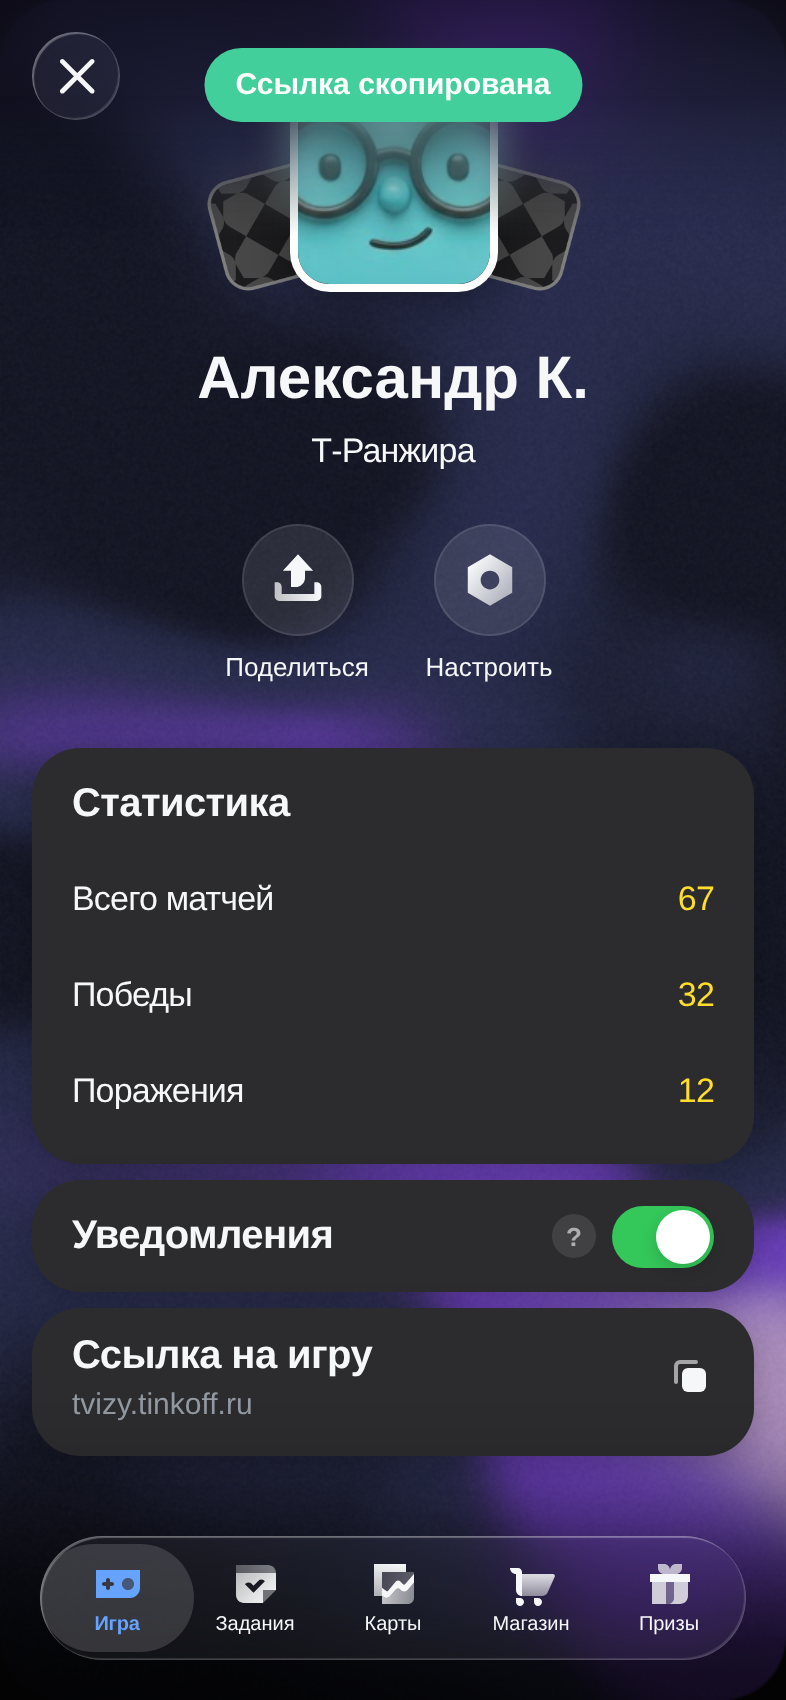
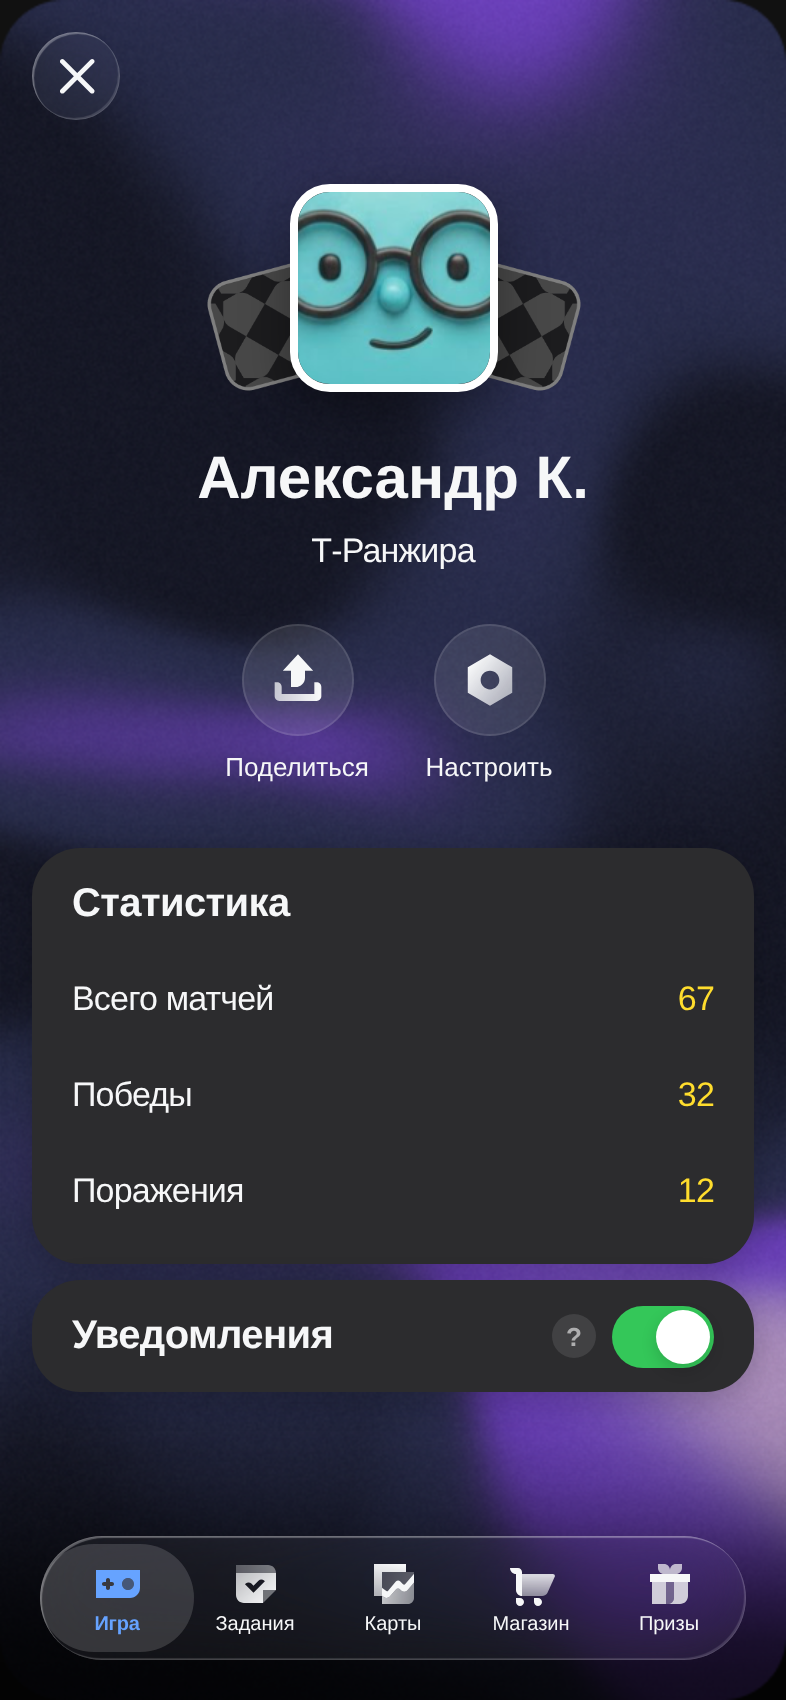
v2: убран блок «Ссылка на игру» из профиля
В профиле остаются только статистика и уведомления.

Claude-Session: https://claude.ai/code/session_01WV2oNWZDh3kq1zaWWkyP1c

diff --git a/v2.html b/v2.html
@@ -4,13 +4,13 @@
   <meta charset="UTF-8">
   <meta name="viewport" content="width=device-width, initial-scale=1, viewport-fit=cover">
   <title>Арена Карт</title>
-  <link rel="stylesheet" href="css/match.css?v=202610081029">
-  <link rel="stylesheet" href="css/v2.css?v=202610081029">
-  <link rel="stylesheet" href="css/profile.css?v=202610081029">
-  <link rel="stylesheet" href="css/tasks.css?v=202610081029">
-  <link rel="stylesheet" href="css/gifts.css?v=202610081029">
-  <link rel="stylesheet" href="css/cards-v2.css?v=202610081029">
-  <link rel="stylesheet" href="css/event.css?v=202610081029">
+  <link rel="stylesheet" href="css/match.css?v=202610081036">
+  <link rel="stylesheet" href="css/v2.css?v=202610081036">
+  <link rel="stylesheet" href="css/profile.css?v=202610081036">
+  <link rel="stylesheet" href="css/tasks.css?v=202610081036">
+  <link rel="stylesheet" href="css/gifts.css?v=202610081036">
+  <link rel="stylesheet" href="css/cards-v2.css?v=202610081036">
+  <link rel="stylesheet" href="css/event.css?v=202610081036">
 </head>
 <body>
   <svg width="0" height="0" style="position: absolute">
@@ -252,14 +252,6 @@
           <span class="pf-hint" title="Напоминания о заданиях и ивентах">?</span>
           <label class="pf-switch"><input type="checkbox" id="profileNotifySwitch"><span></span></label>
         </div>
-
-        <button class="pf-card pf-card-row pf-share-card" id="profileCopyBtn">
-          <span class="pf-share-texts">
-            <span class="pf-card-title">Ссылка на игру</span>
-            <span class="pf-share-url">tvizy.tinkoff.ru</span>
-          </span>
-          <span class="pf-copy-icon"><svg width="24" height="24" viewBox="0 0 24 24" fill="none"><rect x="8" y="8" width="12" height="12" rx="3" fill="currentColor"/><path d="M5 15V7C5 5.89543 5.89543 5 7 5H15" stroke="currentColor" stroke-width="2" stroke-linecap="round" opacity="0.6"/></svg></span>
-        </button>
       </section>
     </div>
 
@@ -437,12 +429,12 @@
 
   </main>
 
-  <script src="js/cards.js?v=202610081029"></script>
-  <script src="js/v2.js?v=202610081029"></script>
-  <script src="js/profile.js?v=202610081029"></script>
-  <script src="js/tasks.js?v=202610081029"></script>
-  <script src="js/cards-v2.js?v=202610081029"></script>
-  <script src="js/gifts.js?v=202610081029"></script>
-  <script src="js/event.js?v=202610081029"></script>
+  <script src="js/cards.js?v=202610081036"></script>
+  <script src="js/v2.js?v=202610081036"></script>
+  <script src="js/profile.js?v=202610081036"></script>
+  <script src="js/tasks.js?v=202610081036"></script>
+  <script src="js/cards-v2.js?v=202610081036"></script>
+  <script src="js/gifts.js?v=202610081036"></script>
+  <script src="js/event.js?v=202610081036"></script>
 </body>
 </html>

diff --git a/js/profile.js b/js/profile.js
@@ -1,4 +1,4 @@
-// Профиль v2: шапка с аватаром, статистика, уведомления, ссылка на игру.
+// Профиль v2: шапка с аватаром, статистика, уведомления.
 // «Настроить» открывает экран настроек: выбор аватарки (сохраняется в
 // localStorage), остальные вкладки — заглушки.
 
@@ -61,12 +61,6 @@ document.getElementById('psetAvatars').addEventListener('click', (e) => {
 const notifySwitch = document.getElementById('profileNotifySwitch');
 notifySwitch.checked = storageGet('v2.notifications') === '1';
 notifySwitch.addEventListener('change', () => storageSet('v2.notifications', notifySwitch.checked ? '1' : '0'));
-
-document.getElementById('profileCopyBtn').addEventListener('click', () => {
-  const url = 'https://tvizy.tinkoff.ru';
-  if (navigator.clipboard) navigator.clipboard.writeText(url).catch(() => {});
-  showProfileToast('Ссылка скопирована');
-});
 
 document.getElementById('profileShareBtn').addEventListener('click', () => {
   const data = { title: 'Арена Карт', url: 'https://tvizy.tinkoff.ru' };

diff --git a/css/profile.css b/css/profile.css
@@ -225,33 +225,6 @@
   transform: translateX(20px);
 }
 
-.pf-share-card {
-  width: calc(100% - 32px);
-  padding-bottom: 16px;
-  transition: transform 0.15s cubic-bezier(0.32, 0.72, 0.35, 1);
-}
-
-.pf-share-card:active {
-  transform: scale(0.98);
-}
-
-.pf-share-texts {
-  flex: 1;
-  display: flex;
-  flex-direction: column;
-  gap: 4px;
-}
-
-.pf-share-url {
-  font-size: 15px;
-  line-height: 18px;
-  color: #9299a2;
-}
-
-.pf-copy-icon {
-  color: #f6f7f8;
-}
-
 .pf-toast {
   position: absolute;
   top: 24px;

diff --git a/docs/readme.md b/docs/readme.md
@@ -28,7 +28,7 @@ Pointer Events, поэтому одинаково работает мышью и
 |---|---|---|
 | Выбор версии | `index.html` | Разводящая: «Версия 1» / «Версия 2» |
 | Главная v1 | `v1.html` | Логотип, вход в матч, онбординг, коллекция, магазин, статистика |
-| Версия 2 | `v2.html` | Новый дизайн (iOS 27 / tui): одна страница с нижней навигацией — Игра, Задания, Карты, Магазин, Призы (Figma 15997:60654). Профиль (Figma 15917:99965) открывается иконкой справа в шапке главной (таба у него нет, подсвечена «Игра»): аватар с рубашками карт, имя и статус, «Поделиться» / «Настроить», статистика, переключатель уведомлений, карточка «Ссылка на игру» (копирует ссылку). «Настроить» открывает «Настройки профиля» (въезжают справа, назад — стрелка в стеклянном круге): чипсы Аватарки / Рамки / Рубашка колоды / Статус, выбор аватарки сохраняется в localStorage и сразу меняет аватар в профиле, остальные вкладки — заглушки. Карты — колода и коллекция как в версии 1 (`js/cards-v2.js`, `css/cards-v2.css`, колода в том же localStorage и сохраняется сразу при каждом добавлении/удалении карты), Магазин — заглушка. Задания и Призы — рабочие разделы (см. ниже). На главной — виджет «Новогоднее событие» (синий, со снежинкой и ёлочными шарами), `v2.html#event` открывает ивент сразу. `v2.html#profile` открывает сразу профиль, `profile.html` — редирект туда |
+| Версия 2 | `v2.html` | Новый дизайн (iOS 27 / tui): одна страница с нижней навигацией — Игра, Задания, Карты, Магазин, Призы (Figma 15997:60654). Профиль (Figma 15917:99965) открывается иконкой справа в шапке главной (таба у него нет, подсвечена «Игра»): аватар с рубашками карт, имя и статус, «Поделиться» / «Настроить», статистика, переключатель уведомлений. «Настроить» открывает «Настройки профиля» (въезжают справа, назад — стрелка в стеклянном круге): чипсы Аватарки / Рамки / Рубашка колоды / Статус, выбор аватарки сохраняется в localStorage и сразу меняет аватар в профиле, остальные вкладки — заглушки. Карты — колода и коллекция как в версии 1 (`js/cards-v2.js`, `css/cards-v2.css`, колода в том же localStorage и сохраняется сразу при каждом добавлении/удалении карты), Магазин — заглушка. Задания и Призы — рабочие разделы (см. ниже). На главной — виджет «Новогоднее событие» (синий, со снежинкой и ёлочными шарами), `v2.html#event` открывает ивент сразу. `v2.html#profile` открывает сразу профиль, `profile.html` — редирект туда |
 | Матч | `match.html` | Полноценная партия против ИИ |
 | Онбординг | `onboarding.html` | Обучающий сценарий из 14 шагов, переходящий в реальный матч |
 | Коллекция | `collection.html` | Просмотр всех карт и сборка колоды из 8 карт |
